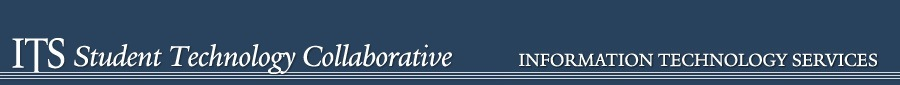
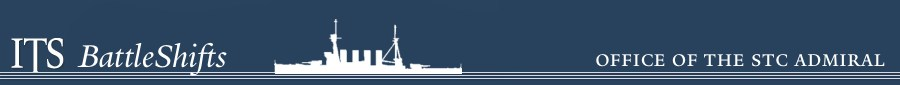
battleshifts begins, a bit more work remains though

diff --git a/public/javascripts/battleshifts.js b/public/javascripts/battleshifts.js
@@ -1,0 +1,261 @@
+/*
+********************CSS********************
+.intro { font-size:10pt; font-style:italic }
+.heading { font-size:14pt; font-weight:bold; font-family:sans-serif }
+.title { font-size:18pt; font-weight:bold; background-color:navy; color:white; text-align:center; font-family:sans-serif }
+*/
+
+/* This script and many more are available free online at
+The JavaScript Source!! http://javascript.internet.com
+Created by: Jason Hotchkiss |  */
+
+/* Information used to draw the ships */
+var ship =  [[[11,12], [13,14,12], [15,16,17,18], [19,14,20,21,22]], [[31,32], [33,34,32], [35,36,37,38], [39,34,40,41,42]]];
+
+/* Information used to draw sunk ships */
+var dead = [[[201,203], [201,202,203], [201,202,202,203], [201,202,202,202,203]], [[204,206], [204,205,206], [204,205,205,206], [204,205,205,205,206]]];
+
+/* Information used to describe ships */
+var shiptypes = [["IO Ship",2,4],["TTO-stroyer",3,4],[ "Bass-tle-ship",4,2],[ "CTHall Carrier",5,1]];
+
+var gridx = 16, gridy = 16;
+var player = [], computer = [], playersships = [], computersships = [];
+var playerlives = 0, computerlives = 0, playflag=true, statusmsg="";
+
+/* Function to preload all the images, to prevent delays during play */
+var preloaded = [];
+
+function imagePreload() {
+  var i,ids = [11,12,13,14,15,16,17,18,19,20,21,22,111,112,113,114,115,116,117,118,119,120,121,122,100,101,102,103,201,202,203,204,205,206];
+  window.status = "Preloading images...please wait";
+  for (i=0;i<ids.length;++i) {
+    var img = new Image, name = "localhost:3000/images/battleshifts/batt"+ids[i]+".gif";
+    img.src = name;
+    preloaded[i] = img;
+  }
+  window.status = "";
+}
+
+/* Function to place the ships in the grid */
+function setupPlayer(ispc) {
+  var y,x;
+  grid = [];
+  for (y=0;y<gridx;++y) {
+    grid[y] = [];
+    for (x=0;x<gridx;++x)
+    grid[y][x] = [100,-1,0];
+  }
+  var shipno = 0;
+  var s;
+  for (s=shiptypes.length-1;s>=0;--s) {
+    var i;
+    for (i=0;i<shiptypes[s][2];++i) {
+      var d = Math.floor(Math.random()*2);
+      var len = shiptypes[s][1], lx=gridx, ly=gridy, dx=0, dy=0;
+      if ( d==0) {
+        lx = gridx-len;
+        dx=1;
+      } else {
+        ly = gridy-len;
+        dy=1;
+      }
+      var x,y,ok;
+      do {
+        y = Math.floor(Math.random()*ly);
+        x = Math.floor(Math.random()*lx);
+        var j,cx=x,cy=y;
+        ok = true;
+        for (j=0;j<len;++j) {
+          if (grid[cy][cx][0] < 100) {
+          ok=false;
+          break;
+        }
+        cx+=dx;
+        cy+=dy;
+      }
+    } while(!ok);
+      var j,cx=x,cy=y;
+      for (j=0;j<len;++j) {
+        grid[cy][cx][0] = ship[d][s][j];
+        grid[cy][cx][1] = shipno;
+        grid[cy][cx][2] = dead[d][s][j];
+        cx+=dx;
+        cy+=dy;
+      }
+      if (ispc) {
+        computersships[shipno] = [s,shiptypes[s][1]];
+        computerlives++;
+      } else {
+        playersships[shipno] = [s,shiptypes[s][1]];
+        playerlives++;
+      }
+      shipno++;
+    }
+  }
+return grid;
+}
+
+/* Function to change an image shown on a grid */
+function setImage(y,x,id,ispc) {
+  if ( ispc ) {
+    computer[y][x][0] = id;
+    document.images["pc"+y+"_"+x].src = "/images/battleshifts/batt"+id+".gif";
+  } else {
+    player[y][x][0] = id;
+    document.images["ply"+y+"_"+x].src = "/images/battleshifts/batt"+id+".gif";
+  }
+}
+
+/* Function to insert HTML source for a grid */
+function showGrid(ispc) {
+  var y,x;
+  for (y=0;y<gridy;++y) {
+    for (x=0;x<gridx;++x) {
+      if ( ispc )
+      $('#opponent').append('<a href="javascript:gridClick('+y+','+x+');"><img name="pc'+y+'_'+x+'" src="/images/battleshifts/batt100.gif" width=16 height=16></a>');
+      else
+			$('#player').append('<a href="javascript:void(0);"><img name="ply'+y+'_'+x+'" src="/images/battleshifts/batt'+player[y][x][0]+'.gif" width=16 height=16></a>');
+    }
+		if ( ispc )
+     $('#opponent').append('<br>');
+    else
+		 $('#player').append('<br>'); 
+  }
+}
+
+/* Handler for clicking on the grid */
+function gridClick(y,x) {
+  if ( playflag ) {
+  if (computer[y][x][0] < 100) {
+    setImage(y,x,103,true);
+    var shipno = computer[y][x][1];
+    if ( --computersships[shipno][1] == 0 ) {
+      sinkShip(computer,shipno,true);
+      alert("You sank my "+shiptypes[computersships[shipno][0]][0]+"!");
+      updateStatus();
+      if ( --computerlives == 0 ) {
+        alert("You win! Press the Refresh button on\n"+
+        "your browser to play another game.");
+        playflag = false;
+      }
+    }
+    if ( playflag ) computerMove();
+    } else if (computer[y][x][0] == 100) {
+      setImage(y,x,102,true);
+      computerMove();
+    }
+  }
+}
+
+/* Function to make the computers move. Note that the computer does not cheat, oh no! */
+function computerMove() {
+  var x,y,pass;
+  var sx,sy;
+  var selected = false;
+
+  /* Make two passes during 'shoot to kill' mode */
+  for (pass=0;pass<2;++pass) {
+    for (y=0;y<gridy && !selected;++y) {
+      for (x=0;x<gridx && !selected;++x) {
+        /* Explosion shown at this position */
+        if (player[y][x][0]==103) {
+          sx=x; sy=y;
+          var nup=(y>0 && player[y-1][x][0]<=100);
+          var ndn=(y<gridy-1 && player[y+1][x][0]<=100);
+          var nlt=(x>0 && player[y][x-1][0]<=100);
+          var nrt=(x<gridx-1 && player[y][x+1][0]<=100);
+          if ( pass == 0 ) {
+            /* On first pass look for two explosions in a row - next shot will be inline */
+            var yup=(y>0 && player[y-1][x][0]==103);
+            var ydn=(y<gridy-1 && player[y+1][x][0]==103);
+            var ylt=(x>0 && player[y][x-1][0]==103);
+            var yrt=(x<gridx-1 && player[y][x+1][0]==103);
+            if ( nlt && yrt) { sx = x-1; selected=true; }
+              else if ( nrt && ylt) { sx = x+1; selected=true; }
+              else if ( nup && ydn) { sy = y-1; selected=true; }
+              else if ( ndn && yup) { sy = y+1; selected=true; }
+            } else {
+              /* Second pass look for single explosion - fire shots all around it */
+              if ( nlt ) { sx=x-1; selected=true; }
+              else if ( nrt ) { sx=x+1; selected=true; }
+              else if ( nup ) { sy=y-1; selected=true; }
+              else if ( ndn ) { sy=y+1; selected=true; }
+            }
+          }
+        }
+      }
+    }
+  if ( !selected ) {
+    /* Nothing found in 'shoot to kill' mode, so we're just taking
+       potshots. Random shots are in a chequerboard pattern for
+       maximum efficiency, and never twice in the same place */
+    do {
+      sy = Math.floor(Math.random() * gridy);
+      sx = Math.floor(Math.random() * gridx/2)*2+sy%2;
+    } while( player[sy][sx][0]>100 );
+    }
+  if (player[sy][sx][0] < 100) {
+    /* Hit something */
+    setImage(sy,sx,103,false);
+    var shipno = player[sy][sx][1];
+    if ( --playersships[shipno][1] == 0 ) {
+      sinkShip(player,shipno,false);
+      alert("I sank your "+shiptypes[playersships[shipno][0]][0]+"!");
+      if ( --playerlives == 0 ) {
+        knowYourEnemy();
+        alert("I win! Press the Refresh button on\n"+
+        "your browser to play another game.");
+        playflag = false;
+      }
+    }
+  } else {
+    /* Missed */
+    setImage(sy,sx,102,false);
+  }
+}
+
+/* When whole ship is hit, show it using changed graphics
+*/
+function sinkShip(grid,shipno,ispc) {
+  var y,x;
+  for (y=0;y<gridx;++y) {
+    for (x=0;x<gridx;++x) {
+      if ( grid[y][x][1] == shipno )
+      if (ispc) setImage(y,x,computer[y][x][2],true);
+      else setImage(y,x,player[y][x][2],false);
+    }
+  }
+}
+
+/* Show location of all the computers ships - when player has lost */
+function knowYourEnemy() {
+  var y,x;
+  for (y=0;y<gridx;++y) {
+    for (x=0;x<gridx;++x) {
+      if ( computer[y][x][0] == 103 )
+      setImage(y,x,computer[y][x][2],true);
+      else if ( computer[y][x][0] < 100 )
+      setImage(y,x,computer[y][x][0],true);
+    }
+  }
+}
+
+/* Show how many ships computer has left */
+function updateStatus() {
+  var f=false,i,s = "Computer has ";
+  for (i=0;i<computersships.length;++i) {
+    if (computersships[i][1] > 0) {
+      if (f) s=s+", "; else f=true;
+      s = s + shiptypes[computersships[i][0]][0];
+    }
+  }
+  if (!f) s = s + "nothing left, thanks to you!";
+  statusmsg = s;
+  window.status = statusmsg;
+}
+
+function setStatus() {
+  window.status = statusmsg;
+}
+
+/* Start the game! */

diff --git a/app/models/user.rb b/app/models/user.rb
@@ -149,6 +149,7 @@ class User < ActiveRecord::Base
 
   def name
     [((nick_name.nil? or nick_name.length == 0) ? first_name : nick_name), last_name].join(" ")
+    [rank, ((nick_name.nil? or nick_name.length == 0) ? first_name[0,1] +"." : nick_name)[0,1] +".", last_name].join(" ")
   end
 
   def proper_name
